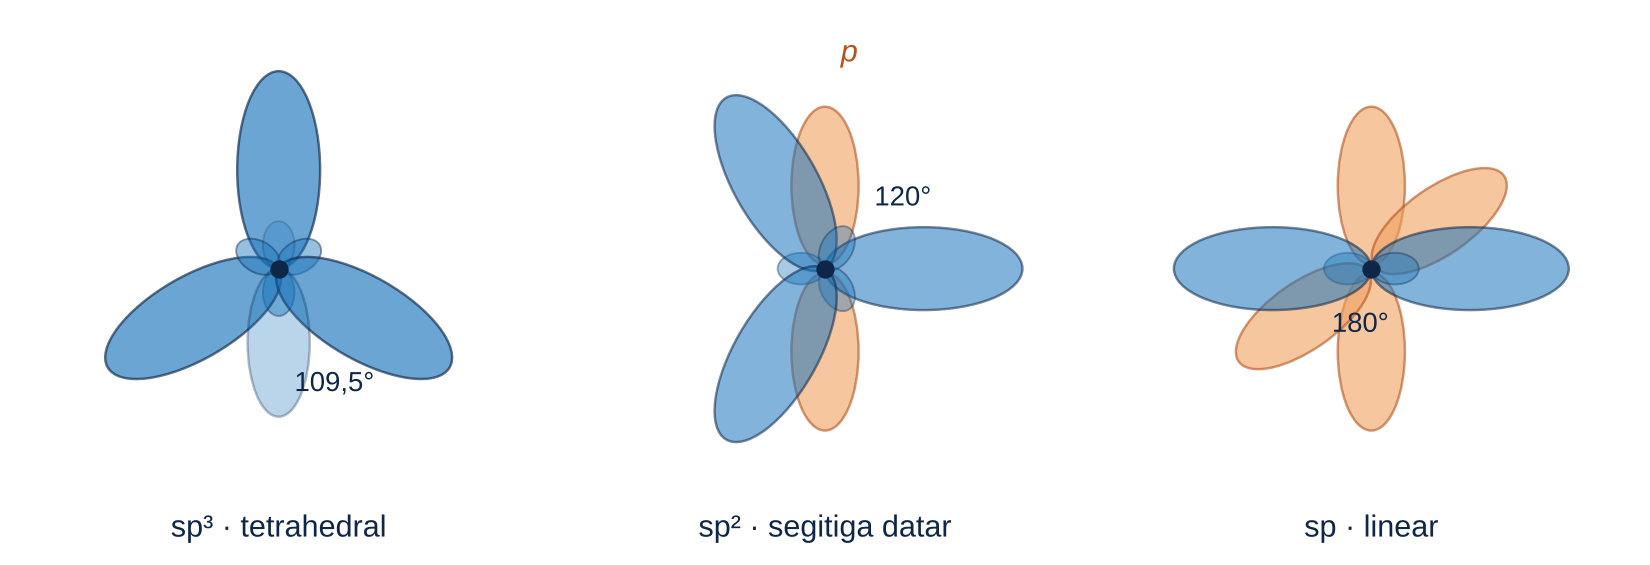
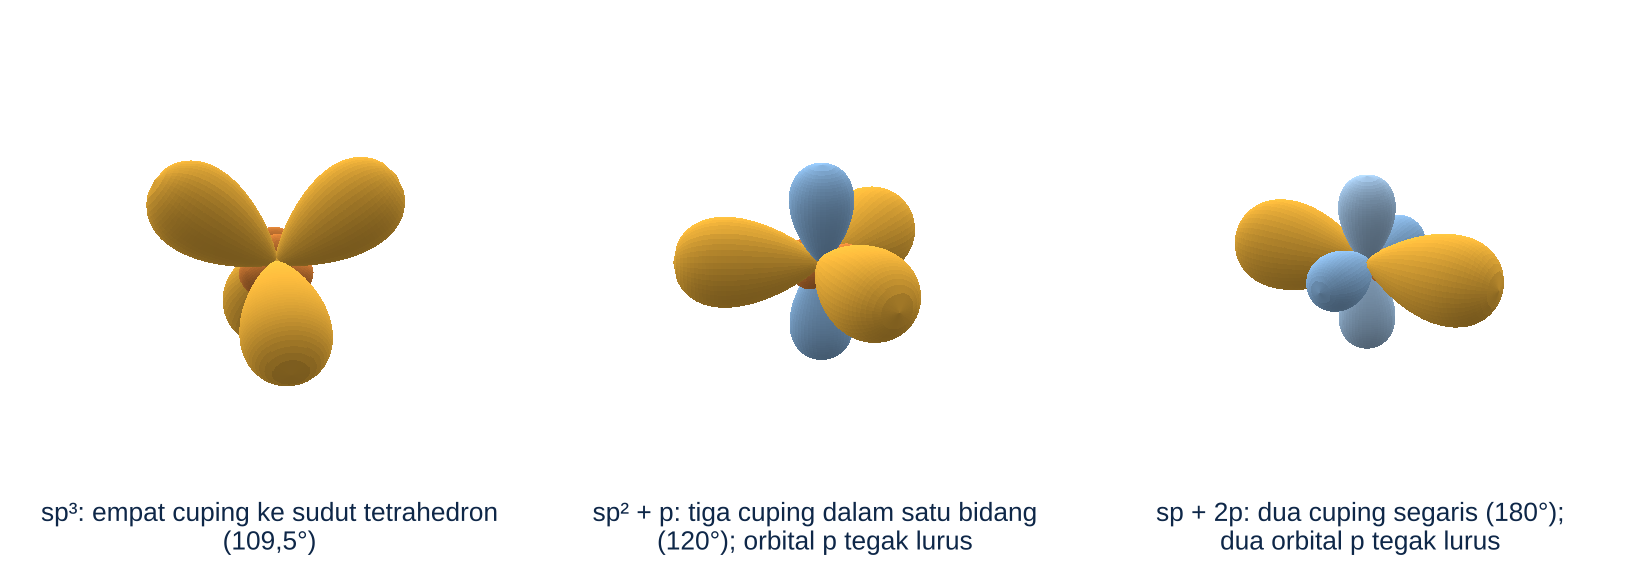
Kimia Organik 1: percontohan gaya ilustrasi 3D (orbital, hibridisasi, sigma/pi, dipol, VSEPR Bab 1); alat ilustrasi.py
Claude-Session: https://claude.ai/code/session_01G22JtT1y1xdtaSNXZDohTG

diff --git a/kimia-organik/alat/gambar/bab01.py b/kimia-organik/alat/gambar/bab01.py
@@ -342,3 +342,113 @@ ax.set_xticks(x); ax.set_xticklabels(nm, rotation=30, ha='right', fontsize=8); a
 ax.yaxis.set_major_formatter(fmt)
 plt.tight_layout(); simpan(f, 'larut')
 print('ok tambahan')
+
+# ================= versi ilustrasi 3D (menggantikan versi garis) =================
+from ilustrasi import ax3d, sumbu, orbital_s, orbital_p, orbital_hibrid, tetes, molekul3d, bola, batang, EMAS, JINGGA, BIRU3, MERAH3
+from rdkit.Chem import AllChem
+def koord(smi, seed=7):
+    m = Chem.AddHs(Chem.MolFromSmiles(smi)); AllChem.EmbedMolecule(m, randomSeed=seed); AllChem.MMFFOptimizeMolecule(m)
+    P = m.GetConformer().GetPositions(); P = P - P[[a.GetIdx() for a in m.GetAtoms() if a.GetSymbol() != 'H'][0]]
+    return m, P
+def pasang(m, P):
+    atom = [(a.GetSymbol(), P[a.GetIdx()]) for a in m.GetAtoms()]; ik = [(b.GetBeginAtomIdx(), b.GetEndAtomIdx()) for b in m.GetBonds()]; return atom, ik
+def layar(az):
+    a = np.radians(az); return np.array([-np.sin(a), np.cos(a), 0.0])
+def rz(P, u, v):
+    u = np.array(u, float); u[2] = 0; a = np.arctan2(v[1], v[0]) - np.arctan2(u[1], u[0]); c, s_ = np.cos(a), np.sin(a)
+    return P @ np.array([[c, -s_, 0], [s_, c, 0], [0, 0, 1]]).T
+def putar(P, u, v):
+    """putar sehingga vektor u menjadi v"""
+    from ilustrasi import _rot
+    R1 = _rot(u).T; R2 = _rot(v); return P @ R1.T @ R2.T
+
+# orbital: diagram energi (garis tipis) + bentuk orbital berbayang
+f = plt.figure(figsize=(7.4, 2.0), dpi=220)
+a = f.add_axes([0.0, 0.08, 0.24, 0.84]); a.set_xlim(0, 6); a.set_ylim(0, 10); a.axis('off')
+for y, lab, n_ in [(1.0, '1s', 1), (4.0, '2s', 1), (7.0, '2p', 3)]:
+    for i in range(n_): a.plot([1.4 + i * 1.5, 2.5 + i * 1.5], [y, y], color=TUA, lw=1.2)
+    a.text(0.9, y, lab, fontsize=9, color=TUA, va='center', ha='right')
+for x, y, s in [(1.95, 1.0, 'ud'), (1.95, 4.0, 'ud'), (1.95, 7.0, 'u'), (3.45, 7.0, 'u')]:
+    if 'u' in s: a.annotate('', (x - 0.15, y + 1.1), (x - 0.15, y + 0.05), arrowprops=dict(arrowstyle='-|>', color=BIRU, lw=1.0, mutation_scale=8))
+    if 'd' in s: a.annotate('', (x + 0.15, y + 0.05), (x + 0.15, y + 1.1), arrowprops=dict(arrowstyle='-|>', color=JT, lw=1.0, mutation_scale=8))
+a.text(3.0, 9.6, 'karbon: 1s² 2s² 2p²', fontsize=9, color=TUA, ha='center', fontweight='bold')
+for k, (nm, d) in enumerate([('s', None), ('$p_x$', (1, 0, 0)), ('$p_y$', (0, 1, 0)), ('$p_z$', (0, 0, 1))]):
+    ax = ax3d(f, [0.25 + k * 0.19, 0.1, 0.19, 0.95], lim=0.95); sumbu(ax, L=0.95, fs=8)
+    if d is None: orbital_s(ax, 0.5)
+    else: orbital_p(ax, d, 1.0)
+    f.text(0.25 + k * 0.19 + 0.095, 0.04, nm, ha='center', fontsize=10, color=TUA)
+f.savefig(f'{F}/orbital.png', bbox_inches='tight'); plt.close(f)
+
+# hibridisasi
+f = plt.figure(figsize=(7.4, 2.5), dpi=220)
+t4 = np.array([[1, 1, 1], [1, -1, -1], [-1, 1, -1], [-1, -1, 1]], float)
+ax = ax3d(f, [0.0, 0.1, 0.33, 0.9], lim=1.15, elev=12, azim=-52)
+for d in t4: orbital_hibrid(ax, d, 0.25, 1.05)
+f.text(0.165, 0.04, 'sp³: empat cuping ke sudut tetrahedron\n(109,5°)', ha='center', fontsize=8.6, color=TUA)
+ax = ax3d(f, [0.335, 0.1, 0.33, 0.9], lim=1.15, elev=22, azim=-60)
+for g in (90, 210, 330): orbital_hibrid(ax, (np.cos(np.radians(g)), np.sin(np.radians(g)), 0), 1 / 3, 1.05)
+orbital_p(ax, (0, 0, 1), 0.85, w1='#8dbbe8', w2='#8dbbe8')
+f.text(0.5, 0.04, 'sp² + p: tiga cuping dalam satu bidang\n(120°); orbital p tegak lurus', ha='center', fontsize=8.6, color=TUA)
+ax = ax3d(f, [0.67, 0.1, 0.33, 0.9], lim=1.15, elev=22, azim=-60)
+for d in [(1, 0, 0), (-1, 0, 0)]: orbital_hibrid(ax, d, 0.5, 1.05)
+orbital_p(ax, (0, 1, 0), 0.75, w1='#8dbbe8', w2='#8dbbe8'); orbital_p(ax, (0, 0, 1), 0.75, w1='#a9cdf0', w2='#a9cdf0')
+f.text(0.835, 0.04, 'sp + 2p: dua cuping segaris (180°);\ndua orbital p tegak lurus', ha='center', fontsize=8.6, color=TUA)
+f.savefig(f'{F}/hibrid.png', bbox_inches='tight'); plt.close(f)
+
+# sigma dan pi
+f = plt.figure(figsize=(7.4, 2.3), dpi=220)
+pan = [('s + s (H–H)', 'ss'), ('sp³ + s (C–H)', 'hs'), ('sp³ + sp³ (C–C)', 'hh'), ('p + p sisi ke sisi (π)', 'pp')]
+for k, (t, j) in enumerate(pan):
+    ax = ax3d(f, [k * 0.25, 0.12, 0.25, 0.88], lim=1.25, elev=14, azim=-80)
+    if j == 'ss': orbital_s(ax, 0.55, (-0.42, 0, 0)); orbital_s(ax, 0.55, (0.42, 0, 0), w='#7fb0e6')
+    if j == 'hs': orbital_hibrid(ax, (1, 0, 0), 0.25, 1.0, (-0.75, 0, 0)); orbital_s(ax, 0.42, (0.62, 0, 0), w='#8dc0ee')
+    if j == 'hh': orbital_hibrid(ax, (1, 0, 0), 0.25, 0.9, (-0.85, 0, 0)); orbital_hibrid(ax, (-1, 0, 0), 0.25, 0.9, (0.85, 0, 0), w='#f3c86a')
+    if j == 'pp':
+        for x in (-0.45, 0.45): orbital_p(ax, (0, 0, 1), 0.85, (x, 0, 0), w1=JG, w2=JG)
+        ax.plot([-0.45, 0.45], [0, 0], [0, 0], color=TUA, lw=1.2)
+    f.text(k * 0.25 + 0.125, 0.05, t, ha='center', fontsize=8.8, color=TUA)
+f.text(0.375, 0.95, 'ikatan σ: tumpang tindih ujung ke ujung, di sepanjang sumbu antarinti', ha='center', fontsize=8.8, color=BIRU, fontweight='bold')
+f.text(0.875, 0.95, 'ikatan π: di atas dan di bawah sumbu', ha='center', fontsize=8.8, color=JT, fontweight='bold')
+f.savefig(f'{F}/sigmapi.png', bbox_inches='tight'); plt.close(f)
+
+# dipol: bola-batang dengan panah tipis
+def panah3d(ax, p, q, c=MERAH, lw=1.6):
+    p, q = np.array(p, float), np.array(q, float); ax.quiver(*p, *(q - p), color=c, lw=lw, arrow_length_ratio=0.25)
+    d = q - p; d /= np.linalg.norm(d); n = np.cross(d, [0, 1, 0]); n = n / (np.linalg.norm(n) + 1e-9) * 0.12; c0 = p + d * 0.12
+    ax.plot([c0[0] - n[0], c0[0] + n[0]], [c0[1] - n[1], c0[1] + n[1]], [c0[2] - n[2], c0[2] + n[2]], color=c, lw=lw)
+f = plt.figure(figsize=(7.4, 2.2), dpi=220)
+M = [('O=C=O', 'CO₂', 'μ = 0 D', (1, 0, 0)), ('O', 'H₂O', 'μ = 1,85 D', None), ('CCl', 'CH₃Cl', 'μ = 1,87 D', None), ('ClC(Cl)(Cl)Cl', 'CCl₄', 'μ = 0 D', None)]
+for k, (smi, nm, mu, _) in enumerate(M):
+    m, P = koord(smi)
+    heavy = [a.GetIdx() for a in m.GetAtoms() if a.GetSymbol() != 'H']
+    if smi == 'O=C=O': P = putar(P - P[1], P[0] - P[1], (1, 0, 0))
+    if smi == 'O':
+        hs = [a.GetIdx() for a in m.GetAtoms() if a.GetSymbol() == 'H']; bis = (P[hs[0]] + P[hs[1]]) / 2; P = putar(P, bis, (0, 0, -1)); P = rz(P, P[hs[0]] - P[hs[1]], layar(-75))
+    if smi == 'CCl': P = putar(P, P[1] - P[0], (0, 0, 1))
+    ax = ax3d(f, [k * 0.25, 0.1, 0.25, 0.8], lim=1.75, elev=12, azim=-75)
+    atom, ik = pasang(m, P); molekul3d(ax, atom, ik, s=1.0)
+    if smi == 'O=C=O':
+        panah3d(ax, (-0.25, 0, 0.75), (-1.1, 0, 0.75)); panah3d(ax, (0.25, 0, 0.75), (1.1, 0, 0.75))
+    if smi == 'O': panah3d(ax, (0, 0, -1.25), (0, 0, -0.45))
+    if smi == 'CCl': panah3d(ax, (0.9, 0, -0.2), (0.9, 0, 1.6))
+    f.text(k * 0.25 + 0.125, 0.04, f'{nm}\n{mu}', ha='center', fontsize=9, color=TUA)
+f.text(0.5, 0.97, 'panah dipol menunjuk dari ujung δ+ ke ujung δ−; pada CO₂ dan CCl₄ vektor saling meniadakan', ha='center', fontsize=8.6, color=MERAH)
+f.savefig(f'{F}/dipol.png', bbox_inches='tight'); plt.close(f)
+
+# VSEPR: bola-batang dengan pasangan bebas sebagai cuping
+f = plt.figure(figsize=(7.4, 2.2), dpi=220)
+for k, (smi, nm, sud, npb) in enumerate([('C', 'metana', '109,5°', 0), ('N', 'amonia', '107°', 1), ('O', 'air', '104,5°', 2)]):
+    m, P = koord(smi); hs = [a.GetIdx() for a in m.GetAtoms() if a.GetSymbol() == 'H']
+    sH = sum(P[h] / np.linalg.norm(P[h]) for h in hs)
+    if npb: P = putar(P, -sH, (0, 0, 1))
+    if npb == 2:
+        v_ = layar(-65); a_ = np.radians(50); P = rz(P, np.cross(P[hs[0]], P[hs[1]]), np.array([v_[0] * np.cos(a_) - v_[1] * np.sin(a_), v_[0] * np.sin(a_) + v_[1] * np.cos(a_), 0]))
+    ax = ax3d(f, [k * 0.333, 0.1, 0.333, 0.95], lim=1.2, elev=10, azim=-65)
+    atom, ik = pasang(m, P); molekul3d(ax, atom, ik)
+    if npb == 1: tetes(ax, (0, 0, 1), 0.95, 0.38, '#f3c86a', alpha=0.75)
+    if npb == 2:
+        H1, H2 = [P[h] / np.linalg.norm(P[h]) for h in hs]; bis = -(H1 + H2); bis /= np.linalg.norm(bis); n = np.cross(H1, H2); n /= np.linalg.norm(n)
+        for sg in (1, -1): tetes(ax, bis * 0.58 + n * 0.81 * sg, 0.9, 0.36, '#f3c86a', alpha=0.75)
+    f.text(k * 0.333 + 0.166, 0.03, f'{nm} ({sud})\n{4 - npb} ikatan, {npb} pasangan bebas', ha='center', fontsize=8.8, color=TUA)
+f.savefig(f'{F}/vsepr.png', bbox_inches='tight'); plt.close(f)
+print('ok ilustrasi')

diff --git a/kimia-organik/alat/gambar/ilustrasi.py b/kimia-organik/alat/gambar/ilustrasi.py
@@ -1,0 +1,74 @@
+# Alat ilustrasi 3D berbayang: cuping orbital, bola-batang, sumbu xyz (matplotlib mplot3d)
+import numpy as np
+import matplotlib.pyplot as plt
+from matplotlib.colors import LightSource, to_rgb
+EMAS, JINGGA, BIRU3, MERAH3, HIJAU3, ABU = '#f6b73c', '#e8893a', '#5b8fd6', '#e0707a', '#4fb38a', '#9aa5b1'
+CPK = {'C': '#3a3f47', 'H': '#f2f2f2', 'O': '#d9483b', 'N': '#3d6fd1', 'Cl': '#3fb36b', 'F': '#8fd16a', 'Br': '#a2482a', 'S': '#e6c229'}
+RAD = {'C': 0.36, 'H': 0.24, 'O': 0.34, 'N': 0.34, 'Cl': 0.44, 'F': 0.30, 'Br': 0.48, 'S': 0.44}
+LS = LightSource(azdeg=315, altdeg=40)
+
+def ax3d(fig, rect, lim=1.6, elev=18, azim=-60):
+    ax = fig.add_axes(rect, projection='3d'); ax.set_xlim(-lim, lim); ax.set_ylim(-lim, lim); ax.set_zlim(-lim, lim)
+    ax.set_box_aspect((1, 1, 1)); ax.view_init(elev=elev, azim=azim); ax.set_axis_off(); return ax
+
+def sumbu(ax, L=1.5, lab=True, c='#4a5560', lw=0.8, fs=9):
+    for v, t in [((1, 0, 0), 'x'), ((0, 1, 0), 'y'), ((0, 0, 1), 'z')]:
+        v = np.array(v) * L; ax.plot([-v[0], v[0]], [-v[1], v[1]], [-v[2], v[2]], color=c, lw=lw, zorder=1)
+        ax.quiver(v[0] * 0.92, v[1] * 0.92, v[2] * 0.92, v[0] * 0.08, v[1] * 0.08, v[2] * 0.08, color=c, lw=lw, arrow_length_ratio=1.0)
+        if lab: ax.text(v[0] * 1.1, v[1] * 1.1, v[2] * 1.1, t, fontsize=fs, color=c, style='italic', ha='center', va='center')
+
+def _rot(d):
+    d = np.array(d, float); d /= np.linalg.norm(d); z = np.array([0, 0, 1.0])
+    v = np.cross(z, d); s = np.linalg.norm(v); c = np.dot(z, d)
+    if s < 1e-9: return np.eye(3) if c > 0 else np.diag([1, -1, -1])
+    vx = np.array([[0, -v[2], v[1]], [v[2], 0, -v[0]], [-v[1], v[0], 0]]); return np.eye(3) + vx + vx @ vx * ((1 - c) / s ** 2)
+
+def permukaan(ax, X, Y, Z, warna, alpha=1.0):
+    rgb = np.array(to_rgb(warna)); n = X.shape
+    # normal kira-kira untuk shading
+    shade = LS.shade_normals(_normal(X, Y, Z), fraction=0.9) if True else None
+    fc = np.clip(rgb[None, None, :] * (0.45 + 0.75 * shade[..., None]), 0, 1)
+    fc = np.concatenate([fc, np.full(n + (1,), alpha)], axis=-1)
+    ax.plot_surface(X, Y, Z, facecolors=fc, rstride=1, cstride=1, linewidth=0, edgecolor='none', antialiased=False, shade=False)
+
+def _normal(X, Y, Z):
+    dx1 = np.gradient(X, axis=0); dy1 = np.gradient(Y, axis=0); dz1 = np.gradient(Z, axis=0)
+    dx2 = np.gradient(X, axis=1); dy2 = np.gradient(Y, axis=1); dz2 = np.gradient(Z, axis=1)
+    N = np.stack([dy1 * dz2 - dz1 * dy2, dz1 * dx2 - dx1 * dz2, dx1 * dy2 - dy1 * dx2], -1)
+    N /= np.linalg.norm(N, axis=-1, keepdims=True) + 1e-12
+    return N
+
+def tetes(ax, arah, L=1.0, w=0.36, warna=EMAS, pusat=(0, 0, 0), n=48, m=40, alpha=1.0, pangkal=0.0, bentuk=0.7):
+    """Cuping berbentuk tetes: sumbu sepanjang 'arah', panjang L, lebar maksimum w."""
+    d = np.array(arah, float); d /= np.linalg.norm(d)
+    t = np.linspace(0, 1, m); ph = np.linspace(0, 2 * np.pi, n); Tt, P = np.meshgrid(t, ph)
+    rho = w * 1.45 * Tt ** bentuk * np.sqrt(np.clip(1 - Tt ** 2, 0, None))
+    X, Y, Z = rho * np.cos(P), rho * np.sin(P), pangkal + Tt * L
+    pts = np.stack([X, Y, Z], -1) @ _rot(d).T
+    permukaan(ax, pts[..., 0] + pusat[0], pts[..., 1] + pusat[1], pts[..., 2] + pusat[2], warna, alpha)
+
+def orbital_p(ax, arah, skala=1.0, pusat=(0, 0, 0), w1=BIRU3, w2=MERAH3, alpha=1.0):
+    tetes(ax, arah, 0.95 * skala, 0.36 * skala, w1, pusat, alpha=alpha); tetes(ax, -np.array(arah, float), 0.95 * skala, 0.36 * skala, w2, pusat, alpha=alpha)
+
+def orbital_s(ax, r=0.6, pusat=(0, 0, 0), w=BIRU3):
+    u = np.linspace(0, 2 * np.pi, 48); v = np.linspace(0, np.pi, 32); U, V = np.meshgrid(u, v)
+    permukaan(ax, pusat[0] + r * np.cos(U) * np.sin(V), pusat[1] + r * np.sin(U) * np.sin(V), pusat[2] + r * np.cos(V), w)
+
+def orbital_hibrid(ax, arah, frac_s=0.25, skala=1.0, pusat=(0, 0, 0), w=EMAS, w_kecil=JINGGA, alpha=1.0):
+    tetes(ax, arah, 1.1 * skala, 0.42 * skala, w, pusat, alpha=alpha, bentuk=0.75)
+    tetes(ax, -np.array(arah, float), 0.3 * skala, 0.16 * skala, w_kecil, pusat, alpha=alpha, bentuk=0.6)
+
+def bola(ax, p, el, s=1.0):
+    u = np.linspace(0, 2 * np.pi, 28); v = np.linspace(0, np.pi, 18); U, V = np.meshgrid(u, v); r = RAD[el] * s
+    permukaan(ax, p[0] + r * np.cos(U) * np.sin(V), p[1] + r * np.sin(U) * np.sin(V), p[2] + r * np.cos(V), CPK[el])
+
+def batang(ax, p, q, r=0.07, w='#9aa0a8', n=14):
+    p, q = np.array(p, float), np.array(q, float); d = q - p; L = np.linalg.norm(d)
+    t = np.linspace(0, 1, 2); a = np.linspace(0, 2 * np.pi, n); A, Tt = np.meshgrid(a, t)
+    X, Y, Z = r * np.cos(A), r * np.sin(A), Tt * L; pts = np.stack([X, Y, Z], -1) @ _rot(d).T
+    permukaan(ax, pts[..., 0] + p[0], pts[..., 1] + p[1], pts[..., 2] + p[2], w)
+
+def molekul3d(ax, atom, ikatan, s=1.0):
+    """atom: list (el, (x,y,z)); ikatan: list (i, j). Digambar dari belakang ke depan menurut kedalaman pandang."""
+    for i, j in ikatan: batang(ax, atom[i][1], atom[j][1])
+    for el, p in atom: bola(ax, p, el, s)
